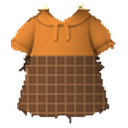
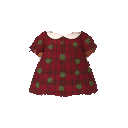
Batch 8: re-add autumn (burgundy tartan), smooth spring boy SW hem

diff --git a/js/avatar.js b/js/avatar.js
@@ -191,7 +191,7 @@ export function frame(ch, key) { if (!ch.av) return null; if (key && key.startsW
 
 // ---------------- v17 LAYERED test set (2D): one still 200x284 PNG per direction per layer (base · outfit+tint mask · hair), foot pivot (100,272).
 // Only the shipped hairs/outfits are offered; any other code maps to the nearest shipped item (old codes keep working).
-const NEW_O = ['hanbok', 'formal', 'winter', 'summer', 'spring']; // v21: hanbok+formal+winter+summer+spring regenerated, 5-dir per-cell + 3x checks passed 2026-10-31; autumn still pulled
+const NEW_O = ['hanbok', 'formal', 'winter', 'summer', 'spring', 'autumn']; // v22: all 6 outfits regenerated (hanbok, formal, winter, summer, spring, autumn), 5-dir per-cell + 3x checks passed 2026-10-31
 export const SHIP = { f: { hairs: [0, 4, 5, 6], outfits: ['basic', 'choir', 'mint', 'sky', 'lav', 'peach', ...NEW_O] }, m: { hairs: [0, 1, 2, 3, 4, 5, 6], outfits: ['basic', 'mint', 'sky', 'lav', 'peach', 'navy', 'choir', ...NEW_O] } };
 const NEAR_H = { f: [0, 6, 4, 4, 4, 5, 6, 4], m: [0, 1, 2, 3, 4, 5, 6] }; // index in HAIRS[g] → shipped index
 export const LAYER_PIVOT = [100, 272];

diff --git a/MORNING_REPORT.md b/MORNING_REPORT.md
@@ -149,3 +149,9 @@ Tests: beta_suite 160/160 local; test_walk_scale PASS; test_presence 6/6 PASS on
 - Checks: all 5 directions passed per-cell and 3x by eye, and the in-game stills are clean. Fixes made: the base's white shorts peeked out on the boy SW/W (filled with denim colour), and dark collar specks were removed on S/SW. Minor issue left: the boy's SW shorts hem is slightly ragged.
 - Server pool is now 17 active / weight 288 (migration 20261031_13). beta_suite 160/160.
 - Still pulled: autumn. Not deleted: the stray Vercel project 'exp' (it needs your approval).
+
+## Batch 8: autumn re-added, spring boy hem fixed (Oct 31 KST)
+- **Autumn (o_autumn '가을 체크 (옷)', w14)** is back in the pool, with a new colour scheme. The girl wears a burgundy tartan dress with green maple leaves. The boy wears a burgundy maple-leaf hoodie with dark green tartan shorts. I tried orange and brown first, but the skin-colour filter treats them as skin, which stripped the sleeves and shredded the hems. Burgundy and green avoid that.
+- Fixes: holes along the tartan lines in the hem were closed with nearest-colour fill. On the boy, leaf holes were filled, the base's white shorts were covered with tartan, and collar specks were removed.
+- **Spring boy SW hem** is now smooth. I removed the grey fringe and the dark blob, then refilled from the base's shorts outline. One tiny notch is left.
+- All 5 directions passed 3x by eye, and the in-game stills are clean. Server pool is now 18 active / weight 302 (migration 20261031_14). beta_suite 160/160.
